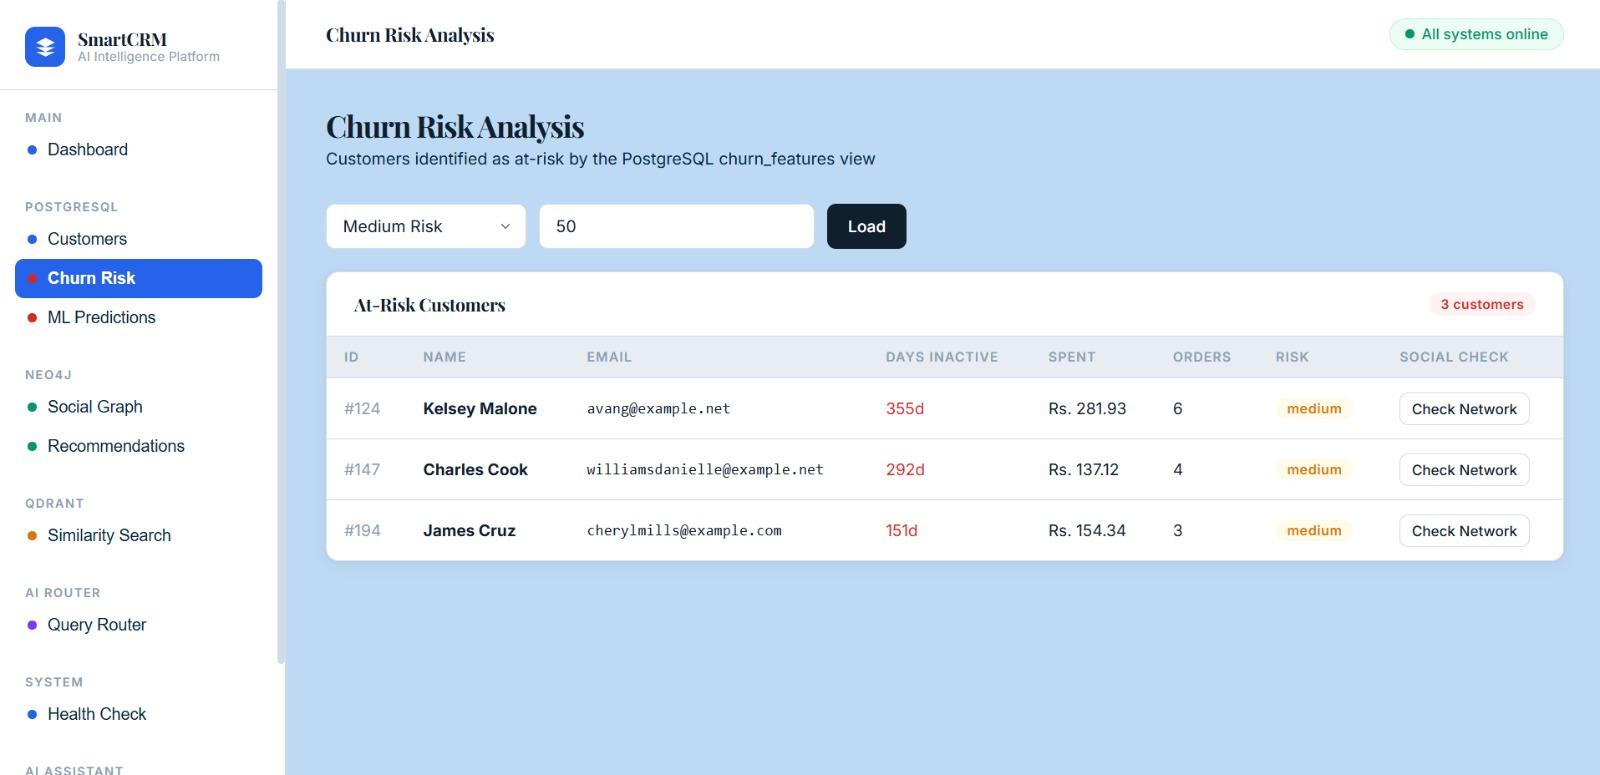
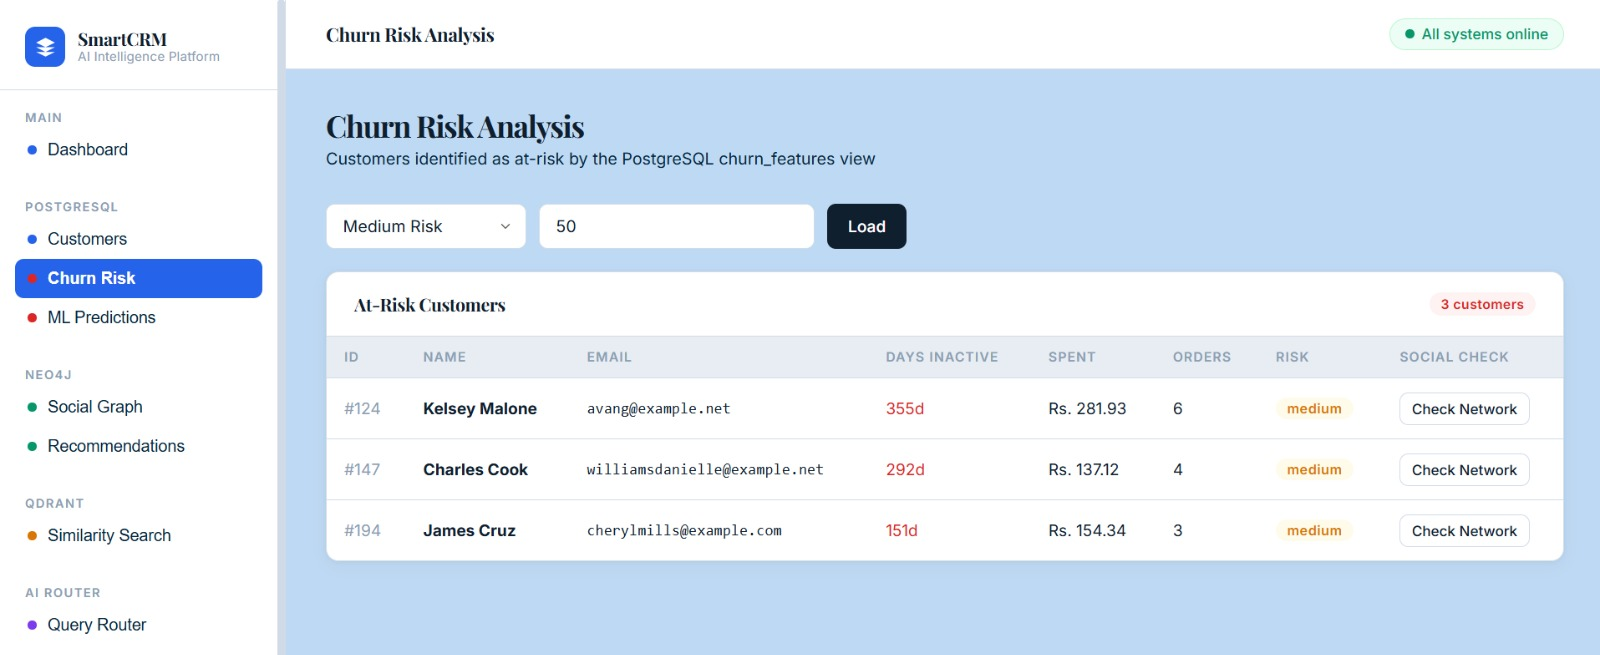
feat: rewrite FlyRank backend bullets with quantified achievements, fix work-mode tag styling

diff --git a/src/data/portfolio-content.ts b/src/data/portfolio-content.ts
@@ -69,7 +69,7 @@ export const experienceContent: Experience[] = [
   {
     role: "Startup Project Lead Intern",
     company: "Ustadam (AI-based EdTech startup)",
-    workMode: "Hybrid",
+    workMode: "Hybrid — UET Lahore",
     dates: "June 2025 – August 2025",
     bullets: [
       "Planned the MVP roadmap for an **AI-based EdTech platform** across backend, frontend, database, and AI integration phases",
